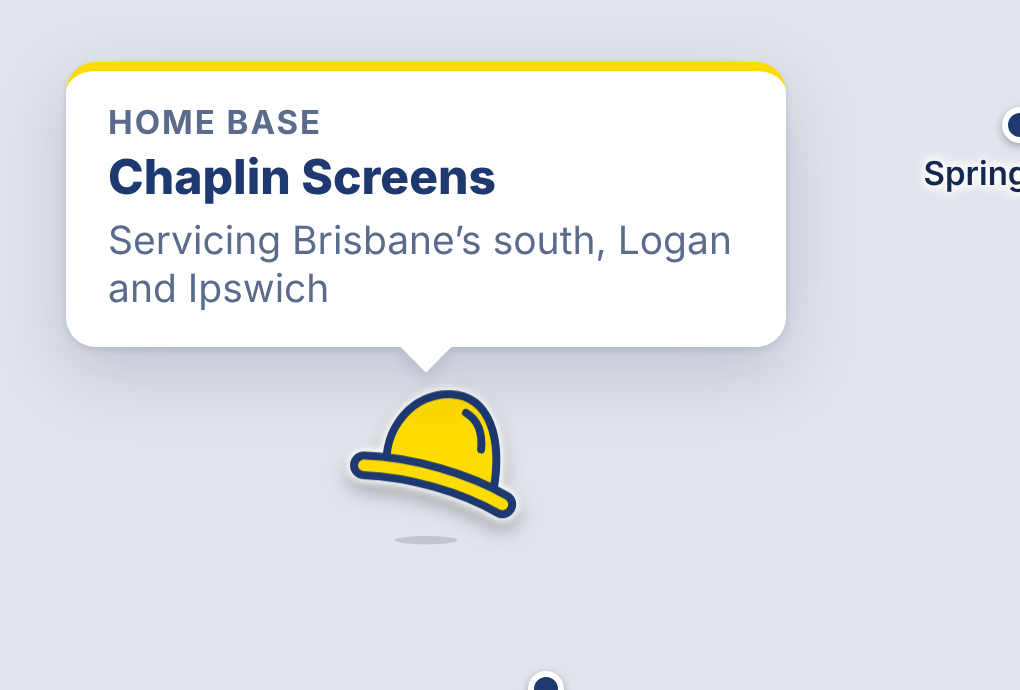
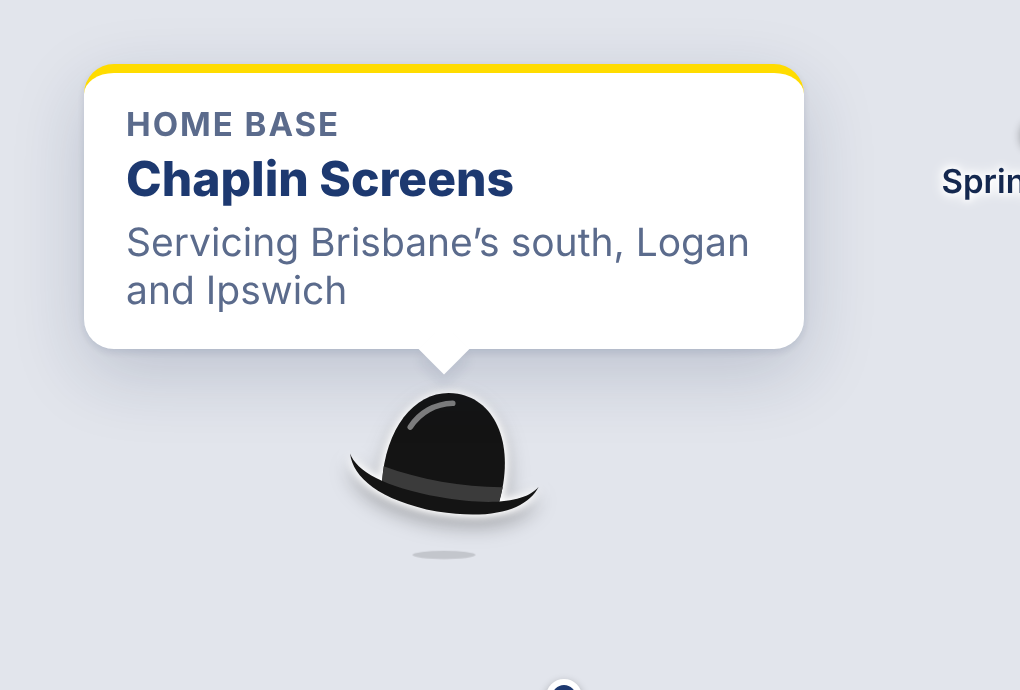
Make the home base marker a black Chaplin-style bowler
Redraw the hat as a black derby with a tall round crown, ribbon band and
curled brim, tipped like the brand icon, with a white edge so it holds
up on the map.

Claude-Session: https://claude.ai/code/session_0174eAv1zeVFdJMDRdpbnAXd

diff --git a/client-maps/chaplin-screens/service-area-map.html b/client-maps/chaplin-screens/service-area-map.html
@@ -128,7 +128,7 @@
   /* Home base: the Chaplin bowler hat, centred on the spot (no pin tip). */
   .csm-hq { transform: translate(-50%, -55%); }
   .csm-hq .csm-pin {
-    width: 64px; height: 52px;
+    width: 76px; height: 57px;
     filter: drop-shadow(0 0 1.5px #fff) drop-shadow(0 0 1.5px #fff) drop-shadow(0 3px 3px rgba(0, 0, 0, .28));
   }
   .csm-hq .csm-shadow { width: 30px; margin-left: -15px; margin-top: -4px; }
@@ -222,7 +222,7 @@
     .csm-map { border-radius: 10px; }
     .csm-label { font-size: 12px; }
     .csm-pin { width: 26px; height: 35px; }
-    .csm-hq .csm-pin { width: 48px; height: 39px; }
+    .csm-hq .csm-pin { width: 50px; height: 38px; }
   }
   @media (max-width: 400px) {
     .csm-dotwrap .csm-label { font-size: 10px; }
@@ -352,16 +352,15 @@
   fitView(); // must run before markers are added
 
   /* ---- Markers ---- */
-  // Chaplin bowler hat, traced from the brand icon (200 x 160 box), drawn
-  // in yellow with a blue outline. The brim sits in front of the dome.
+  // Chaplin's bowler (derby): tall round crown, ribbon band, narrow brim
+  // curled up at the sides, tipped the same way as the brand icon.
   function hatSvg() {
-    var brim = 'M26 96C80 98 140 116 182 140';
-    return '<svg viewBox="-12 -2 216 162" aria-hidden="true" focusable="false">' +
-      '<path d="M52 104C46 52 84 14 124 16C168 18 182 66 172 124C132 108 92 102 52 104Z" fill="' + YELLOW + '" stroke="' + BLUE + '" stroke-width="9" stroke-linejoin="round"/>' +
-      '<path d="M141 37C153 44 160 58 158 78" fill="none" stroke="' + BLUE + '" stroke-width="9" stroke-linecap="round"/>' +
-      '<path d="' + brim + '" fill="none" stroke="' + BLUE + '" stroke-width="31" stroke-linecap="round"/>' +
-      '<path d="' + brim + '" fill="none" stroke="' + YELLOW + '" stroke-width="13" stroke-linecap="round"/>' +
-      '</svg>';
+    return '<svg viewBox="0 -8 200 150" aria-hidden="true" focusable="false"><g transform="rotate(10 100 80)">' +
+      '<path d="M48 99C42 46 66 10 100 10C134 10 158 46 152 99C128 105 72 105 48 99Z" fill="#141414"/>' +
+      '<path d="M47 84C80 90 120 90 153 84L152 99C128 105 72 105 48 99Z" fill="#3b3b3b"/>' +
+      '<path d="M64 46C70 32 82 22 97 19" fill="none" stroke="#fff" stroke-opacity=".45" stroke-width="5" stroke-linecap="round"/>' +
+      '<path d="M16 78C22 98 48 114 100 115C152 114 178 98 184 78C176 92 150 102 100 102C50 102 24 92 16 78Z" fill="#141414"/>' +
+      '</g></svg>';
   }
 
   function pinSvg(fill, stroke, dot) {

diff --git a/client-maps/chaplin-screens/README.md b/client-maps/chaplin-screens/README.md
@@ -22,5 +22,5 @@ All settings are in the `EDIT HERE` block at the top of the script:
 - **Touch.** Tapping a pin shows the hop, then opens the page. Tapping a dot shows its card for a few seconds.
 - **Arrival.** Pins drop in once when the map scrolls into view, rippling out from head office. Skipped under `prefers-reduced-motion`.
 - **Labels.** Dot names sit under the dot, nudged left or right if a neighbour is in the way, and only go above when every spot below is blocked. The map tries a few placement orders and keeps the one that shows the most names, so all names fit at every width tested (320px up).
-- **Home base.** The Chaplin bowler hat (yellow, blue outline) marks where they're based, in place of a pin and label. It's traced as inline SVG (`hatSvg` in the script), so there's no image file to host. Its position is deliberately approximate, as the business is home based.
+- **Home base.** A black Chaplin-style bowler (round crown, ribbon band, curled brim) marks where they're based, in place of a pin and label. It is drawn as inline SVG (`hatSvg` in the script), so there's no image file to host. Its position is deliberately approximate, as the business is home based.
 - Tiles: Esri's keyless light-grey base, without labels. Leaflet 1.9.4 from unpkg with SRI hashes.
